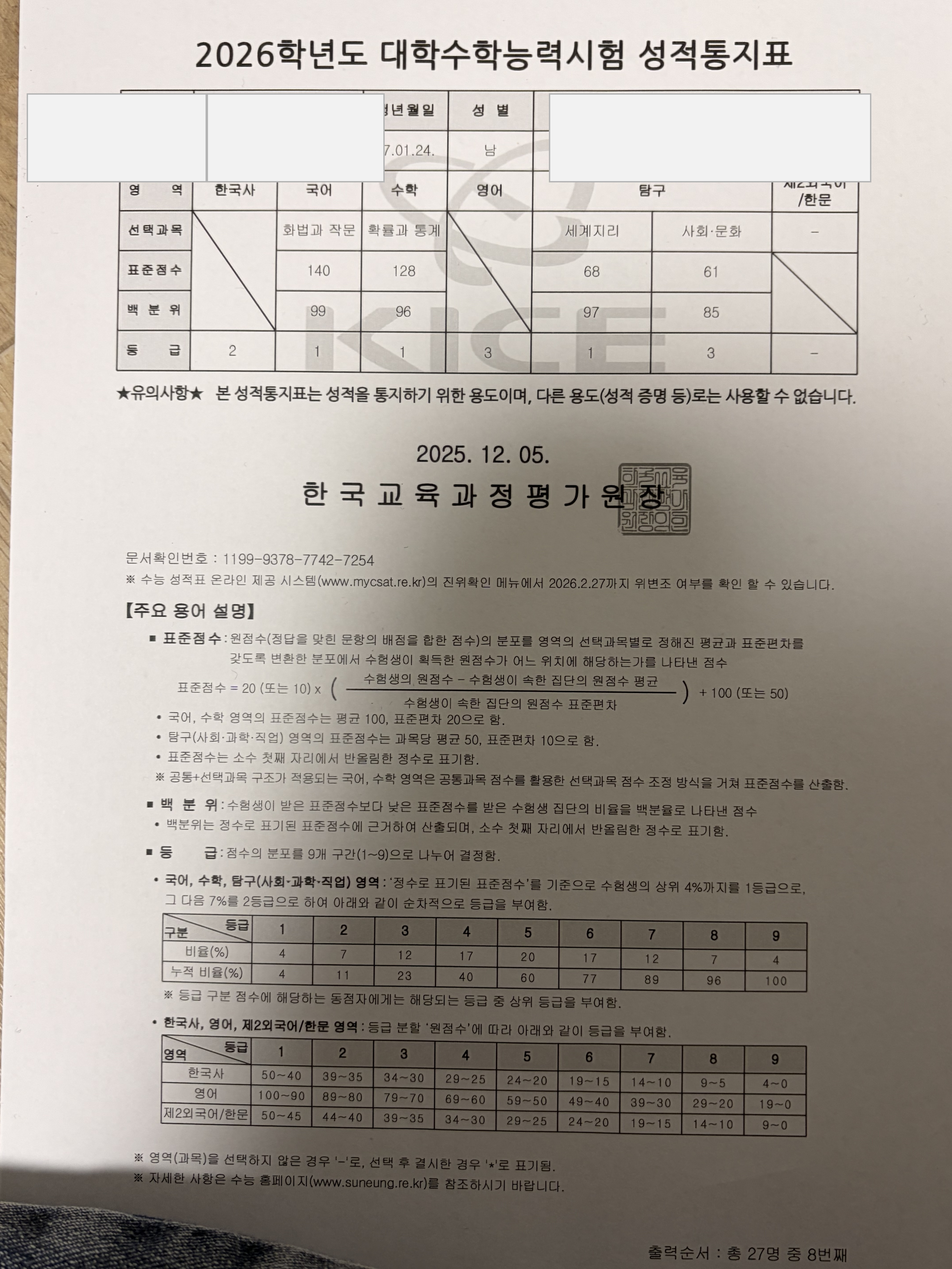
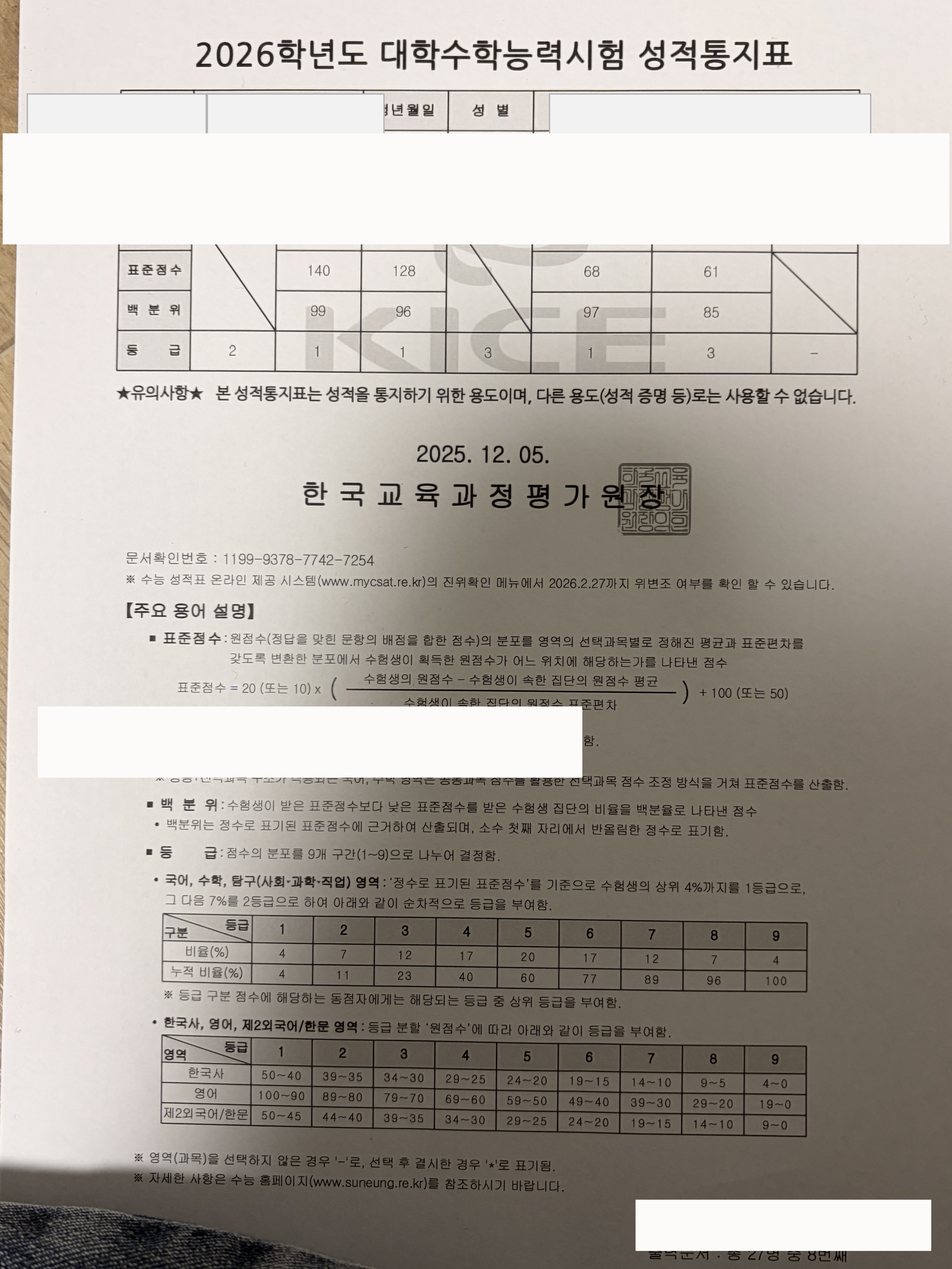
Add redacted score sheets to growth proof

Changed region(s): [[0.0, 0.0935, 1.0, 0.2181], [0.0621, 0.5298, 0.6209, 0.6232], [0.652, 0.9349, 0.9935, 0.9972]]

diff --git a/src/components/marketing/home-growth-proof-section.tsx b/src/components/marketing/home-growth-proof-section.tsx
@@ -1,3 +1,4 @@
+import Image from 'next/image';
 import Link from 'next/link';
 import { BarChart3, Clock3, Search, Sparkles } from 'lucide-react';
 
@@ -61,6 +62,24 @@ const caseMetrics = [
     label: '개입 기록',
     value: '14회',
     detail: '점검 · 피드백 누적',
+  },
+] as const;
+
+const scoreSheetProofs = [
+  {
+    label: '6월 모의평가',
+    caption: '국어 3등급 · 백분위 82',
+    image: '/marketing/proof/june-mock-redacted.jpg',
+  },
+  {
+    label: '9월 모의평가',
+    caption: '국어 1등급 · 백분위 96',
+    image: '/marketing/proof/september-mock-redacted.jpg',
+  },
+  {
+    label: '수능',
+    caption: '국어 백분위 99',
+    image: '/marketing/proof/csat-score-redacted.jpg',
   },
 ] as const;
 
@@ -202,15 +221,61 @@ export function HomeGrowthProofSection() {
               </div>
             </article>
 
-            <div className="rounded-[1.2rem] border border-[#14295F]/10 bg-white px-4 py-4 sm:px-5">
-              <p className="flex items-start gap-2 break-keep text-[12.5px] font-semibold leading-[1.72] text-[#425b78]">
-                <span className="inline-flex items-center gap-2">
-                  <BarChart3 className="h-4 w-4 text-[#FF7A16]" />
-                  결과 섹션이 성과를 보여준다면, 이 구간은 그 성과가 만들어진 과정을 설명합니다.
-                </span>
-              </p>
+          </div>
+        </div>
+
+        <article className="brand-sheen-panel mt-6 overflow-hidden rounded-[1.6rem] border border-[#14295F]/12 bg-white shadow-[0_18px_40px_rgba(20,41,95,0.10)]">
+          <div className="border-b border-[#14295F]/8 bg-[linear-gradient(135deg,#FFF8F1_0%,#F8FBFF_100%)] px-5 py-5 sm:px-6">
+            <div className="flex flex-col gap-3 lg:flex-row lg:items-end lg:justify-between">
+              <div className="max-w-2xl">
+                <p className="text-[10px] font-black tracking-[0.18em] text-[#FF7A16]">ACTUAL SCORE SHEETS</p>
+                <h3 className="mt-2 break-keep text-[1.18rem] font-black leading-[1.4] text-[#14295F] sm:text-[1.3rem]">
+                  실제 모의고사 성적표로 변화 흐름을 확인합니다
+                </h3>
+                <p className="mt-2 break-keep text-[13px] font-semibold leading-[1.78] text-[#425a75]">
+                  원장 국어 수업과 전과목 밸런스 코칭이 함께 들어간 학생 사례입니다.
+                </p>
+              </div>
+
+              <div className="inline-flex items-center rounded-full border border-[#14295F]/10 bg-white px-3 py-1.5 text-[11px] font-black text-[#14295F]/72 shadow-[0_8px_18px_rgba(20,41,95,0.06)]">
+                개인정보 마스킹 완료
+              </div>
             </div>
           </div>
+
+          <div className="grid gap-4 p-5 sm:p-6 md:grid-cols-2 lg:grid-cols-3">
+            {scoreSheetProofs.map((item) => (
+              <article
+                key={item.image}
+                className="brand-sheen-panel overflow-hidden rounded-[1.3rem] border border-[#14295F]/10 bg-white shadow-[0_12px_26px_rgba(20,41,95,0.06)]"
+              >
+                <div className="px-4 pb-4 pt-4">
+                  <p className="text-[10px] font-black tracking-[0.18em] text-[#FF7A16]">{item.label}</p>
+                  <div className="mt-3 rounded-[1.1rem] border border-[#14295F]/8 bg-[#F8FBFF] p-3">
+                    <div className="relative aspect-[3/4] overflow-hidden rounded-[0.95rem] bg-white">
+                      <Image
+                        src={item.image}
+                        alt={`${item.label} 성적표`}
+                        fill
+                        sizes="(max-width: 768px) 100vw, (max-width: 1200px) 50vw, 33vw"
+                        className="object-contain"
+                      />
+                    </div>
+                  </div>
+                  <p className="mt-3 break-keep text-[13px] font-black leading-[1.5] text-[#14295F]">{item.caption}</p>
+                </div>
+              </article>
+            ))}
+          </div>
+        </article>
+
+        <div className="mt-6 rounded-[1.2rem] border border-[#14295F]/10 bg-white px-4 py-4 sm:px-5">
+          <p className="flex items-start gap-2 break-keep text-[12.5px] font-semibold leading-[1.72] text-[#425b78]">
+            <span className="inline-flex items-center gap-2">
+              <BarChart3 className="h-4 w-4 text-[#FF7A16]" />
+              실제 성적표는 이름, 학교, 개인정보를 가린 뒤 6월 · 9월 · 수능 순서로 정리했습니다.
+            </span>
+          </p>
         </div>
       </div>
     </section>
